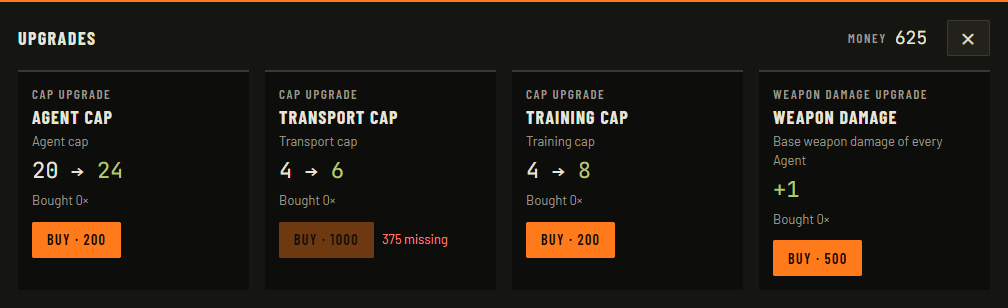
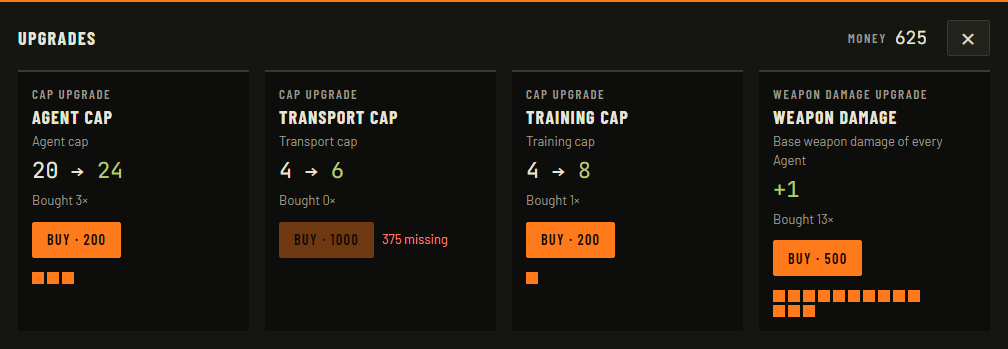
Apply Designer feedback: tally of Upgrade Acquisitions under the Buy button
Add a Tallies component to Visual Design: one 12 px Accent square per item,
10 per row, up to 10 rows, none for 0. Each Upgrade card shows its
Acquisitions as a tally below the Buy button, so the button keeps its place.
Re-export the Upgrades View Artboard.

diff --git a/docs/specs/design/ui/screens/upgrades-view.md b/docs/specs/design/ui/screens/upgrades-view.md
@@ -26,14 +26,16 @@ them, under [Panels and cards](../visual-design.md#panels-and-cards) in Visual D
     "Agent cap 12 → 14", under [Agency caps](../../mechanics/economy-and-upgrades.md#agency-caps) in Economy and Upgrades.
   - **Weapon damage Upgrade:** the [Increment](../../mechanics/economy-and-upgrades.md#glossary) it adds to the [base weapon damage](../../mechanics/agents-spec.md#combatant-attributes) of every [Serving](../../mechanics/agents-spec.md#agent-statuses) [Agent](../../mechanics/domain-model.md#agency-and-agents) and of every
     Agent created later, e.g. "+2 base weapon damage", under [Weapon damage Upgrade](../../mechanics/economy-and-upgrades.md#weapon-damage-upgrade) in Economy and Upgrades.
-- Its [Acquisitions](../../mechanics/economy-and-upgrades.md#glossary) so far, e.g. "Bought 2×".
+- Its [Acquisitions](../../mechanics/economy-and-upgrades.md#glossary) so far, as a count, e.g. "Bought 2×".
 - A primary Buy button labelled with its `price`, which makes one `purchaseUpgrade` [Player action](../../foundation/engine-contract.md#player-actions-and-turns), under
   [Purchasing Upgrades](../../mechanics/economy-and-upgrades.md#purchasing-upgrades) in Economy and Upgrades. While money is below the price, the button is disabled and the
   card says how much money is missing, in Danger.
+- Below the Buy button, a tally of its Acquisitions, under [Tallies](../visual-design.md#tallies) in Visual Design, so that the button keeps its
+  place on the card as the tally grows.
 
 # Artboard
 
-![Upgrades View panel Artboard: the agency's money in the header and one card per Upgrade, each with its kind, the value it changes before and after one more acquisition, its Acquisitions, and a Buy button with its price, one of them disabled with the money missing](../../../../images/artboards/upgrades-view.png)
+![Upgrades View panel Artboard: the agency's money in the header and one card per Upgrade, each with its kind, the value it changes before and after one more acquisition, its Acquisitions as a count, a Buy button with its price, one of them disabled with the money missing, and a tally of squares of its Acquisitions under the button](../../../../images/artboards/upgrades-view.png)
 
 The sample values, e.g. the Upgrade names, prices, and caps, appear only on the Artboard, under
 [Reading Artboards](../visual-design.md#reading-artboards) in Visual Design.

diff --git a/docs/specs/design/ui/visual-design.md b/docs/specs/design/ui/visual-design.md
@@ -324,6 +324,14 @@ tall with 3 px gaps. Each full tenth of the limit fills one segment in Accent, a
 segment in Accent dim, and the other segments are Divider. The value and the limit are written above the meter's right
 end in Accent text, e.g. "24 / 100%".
 
+## Tallies
+
+A tally shows a count that has no limit as a stack of marks, so the Player can compare counts at a glance, e.g. the
+Acquisitions of each Upgrade. It is one Accent square per counted item, 12 px wide and tall with 3 px gaps, filled left
+to right in rows of 10, e.g. 13 items show one full row and 3 squares under it. It grows by a row with every 10 items up to
+10 rows, and a count above 100 still shows 100 squares. A count of 0 shows no squares. The exact count is also shown as
+text, e.g. "Bought 137×", because the squares stop growing.
+
 ## Progress bars
 
 A [Progress bar](gui.md#glossary) lets the Player read at a glance how close an [Investigation](../mechanics/domain-model.md#leads-investigations-mission-sites-and-missions) is to completing, so its colour warms as
